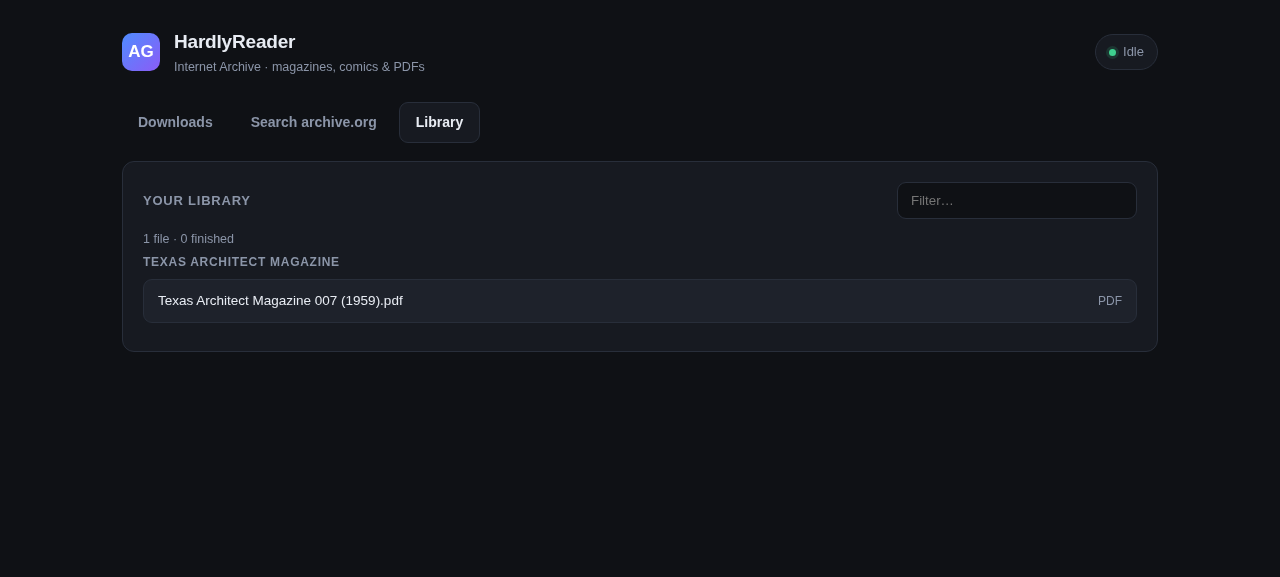
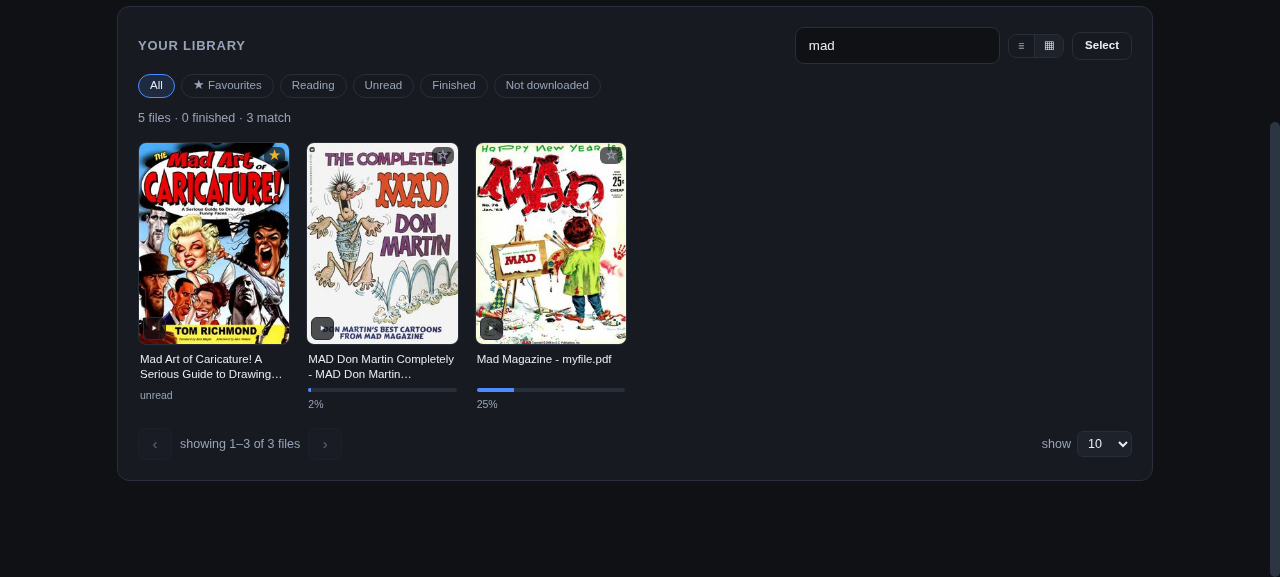
Update HardlyReading entry: library grid, filters, favourites, streaming
The entry still described the app as a downloader with a basic reader. It now
lists reading without downloading, the browsable library (cover grid, filter
chips, favourites, item descriptions) and the grouped queue, with fresh
screenshots for the library and queue.

diff --git a/README.md b/README.md
@@ -11,7 +11,7 @@ AI-generated, the download engines are not.
 
 | Project | Hoards | About |
 |---|---|---|
-| **[HardlyReading](https://github.com/hardlysleeping/HardlyReading)** | Magazines, comics and PDFs from [Internet Archive](https://archive.org) | Paste a collection, item or search; downloads one good file per issue, verifies it, and names it for a comics server. Has a library and a basic CBZ/PDF reader. |
+| **[HardlyReading](https://github.com/hardlysleeping/HardlyReading)** | Magazines, comics and PDFs from [Internet Archive](https://archive.org) | Paste a collection, item or search; downloads one good file per issue, verifies it, and names it for a comics server. Library with cover grid, filters and favourites, plus a CBZ/PDF reader that can also stream pages without downloading. |
 | **[HardlyWatching](https://github.com/hardlysleeping/HardlyWatching)** | Instagram and TikTok profiles | Persistent queue for hundreds of profiles, paced with auto-resume after rate limits. Gallery and timeline to browse what you kept. |
 
 ---
@@ -45,8 +45,15 @@ against archive.org's checksum.
 - **Retry with backoff** — 15m → 1h → 3h → 8h; genuinely missing items are marked unavailable
 - **Komga-ready naming** — one folder per series, `<Series> NNN (Year).ext`, in reading order
 - **Built-in reader** — CBZ and PDF, position saved server-side so it follows you between devices
+- **Read without downloading** — stream a book's pages from archive.org, same reader, same saved place
+- **A library worth browsing** — cover grid or list, filter chips, favourites, descriptions fetched from the item's own record
+- **A queue that shows its work** — Downloading now / Needs attention / Waiting / Finished, with every file in flight listed
 
-<img src="docs/reader.png" width="820" alt="Reading a CBZ">
+| Library | Queue |
+|---|---|
+| <img src="docs/library.png" width="400" alt="Library cover grid"> | <img src="docs/queue.png" width="400" alt="Download queue"> |
+
+<img src="docs/reader.png" width="820" alt="Reading a PDF">
 
 **Needs:** Python 3.8+ and `aria2c`. Start with `python run.py`.
 
